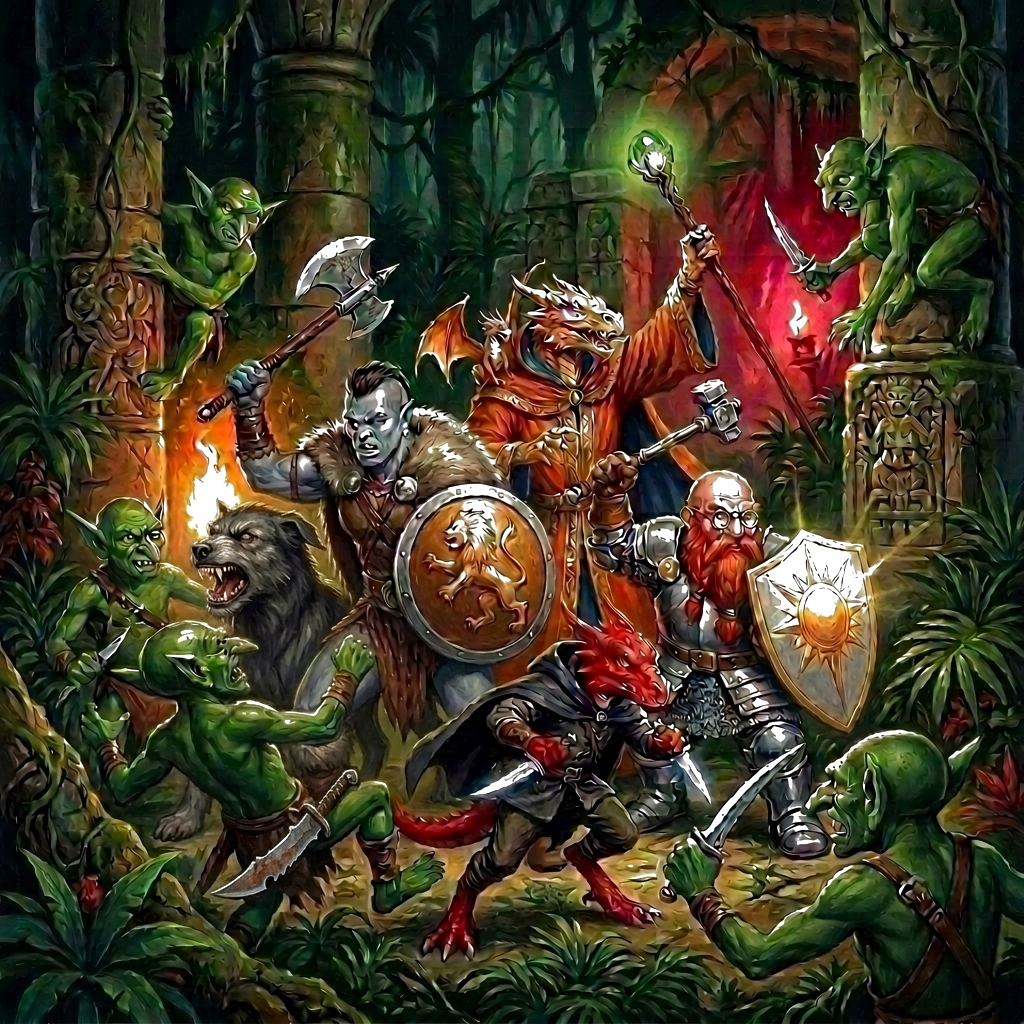
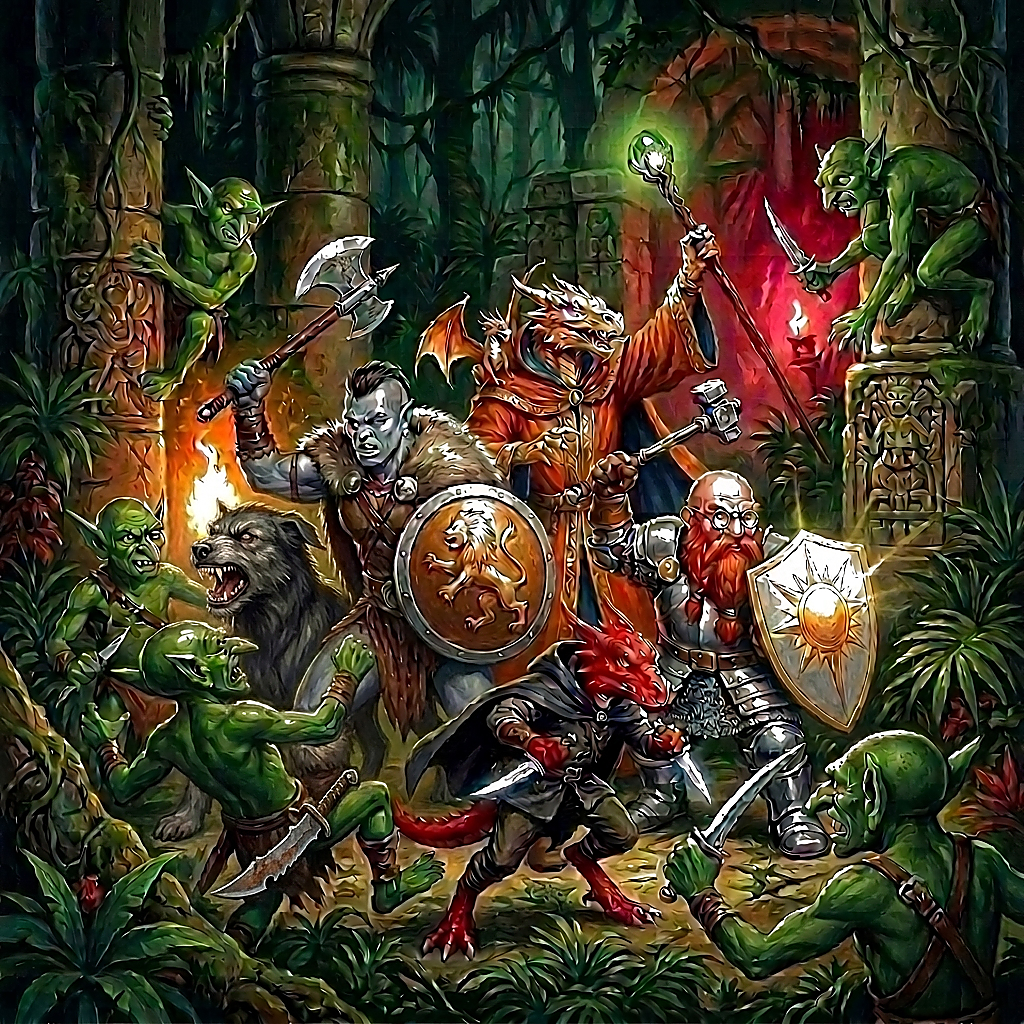
fix: apply unsharp mask edge-sharpening pass and prevent alpha stripping on cover art [skip netlify]

diff --git a/src/lib/build-info.ts b/src/lib/build-info.ts
@@ -1,3 +1,3 @@
 // Generated by scripts/write-build-info.mjs — do not edit
-export const SITE_EDITION = "a0addee";
-export const SITE_BUILT_AT = "2026-07-28T20:29:26.583Z";
+export const SITE_EDITION = "9ddf913";
+export const SITE_BUILT_AT = "2026-07-28T20:31:07.381Z";
